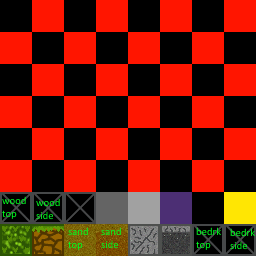
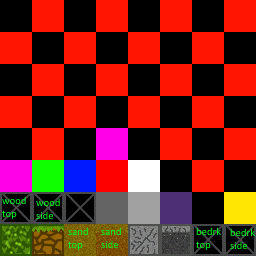
a few more mesh updates
a few more mesh updates

Changed region(s): [[0.0, 0.5, 0.625, 0.75]]

diff --git a/Assets/MeshGenerator.cs b/Assets/MeshGenerator.cs
@@ -10,27 +10,30 @@ public class MeshGenerator  {
 
     MeshFilter filter;
     MeshCollider collider;
+    int scale = 1;
 
 
     public MeshGenerator(float texScale)
     {
         this.texScale = texScale;
+
     }
 
-    public MeshGenerator(float texScale, MeshFilter filter, MeshCollider collider)
+    public MeshGenerator(float texScale,  MeshFilter filter, MeshCollider collider)
     {
         this.texScale = texScale;
+
         this.filter = filter;
         this.collider = collider;
     }
 
-    public void GenearateWallsFromTexture(Texture2D t, int width, int height, bool renderCollision = false){
+    public void GenearateWallsFromTexture(Texture2D t, int width, int height, int wallHeight, bool renderCollision = false){
 
         for (int x = 0; x < width; x++)
         {
             for (int y = 0; y < height; y++)
             {
-                GenerateSquare(x, y, t.GetPixel(x, y), new Color(0f / 256f, 0f / 256f, 0f / 256f));
+                GenerateCube(x * scale, wallHeight * scale, y * scale, t.GetPixel(x, y),new Color(0f / 256f, 0f / 256f, 0f / 256f));
             }
         }
 
@@ -39,27 +42,75 @@ public class MeshGenerator  {
     }
 
 
-    void GenerateSquare(int x, int z, Color inputColor, Color targetColor)
+    public void GenerateFloor(Texture2D t, int x, int y, int z, bool renderCollision = true, int scale = 1)
+    {
+
+
+            verts.Add(new Vector3(x, y, z));
+            verts.Add(new Vector3(x, y, z + scale));
+            verts.Add(new Vector3(x + scale, y, z + scale));
+            verts.Add(new Vector3(x + scale, y, z));
+
+            GenerateSquareUVs(0, 0, 1);
+            GenerateSquareTris();
+
+            GenerateMesh();
+        
+    }
+
+    public void GenerateCube(int x, int y, int z,Color inputColor, Color targetColor)
     {
         if (WithinColorRange(targetColor, inputColor, 64))
         {
 
-            verts.Add(new Vector3(x, 1, z));
-            verts.Add(new Vector3(x, 1, z + 1));
-            verts.Add(new Vector3(x + 1, 1, z + 1));
-            verts.Add(new Vector3(x + 1, 1, z));
+            //Top
+            verts.Add(new Vector3(x, y + scale, z));
+            verts.Add(new Vector3(x, y + scale, z + scale));
+            verts.Add(new Vector3(x + scale, y + scale, z + scale));
+            verts.Add(new Vector3(x + scale, y + scale, z));
 
-            GenerateSquareUVs(0, 0);
+            GenerateSquareUVs(0, 2, texScale);
+            GenerateSquareTris();
+
+            //Front
+            verts.Add(new Vector3(x, y, z));
+            verts.Add(new Vector3(x, y + scale, z));
+            verts.Add(new Vector3(x + scale, y + scale, z));
+            verts.Add(new Vector3(x + scale, y, z));
+
+            GenerateSquareUVs(1, 2, texScale);
+            GenerateSquareTris();
+
+            //Left
+            verts.Add(new Vector3(x, y, z + scale));
+            verts.Add(new Vector3(x, y + scale, z + scale));
+            verts.Add(new Vector3(x , y + scale, z));
+            verts.Add(new Vector3(x, y, z));
+
+            GenerateSquareUVs(1, 2, texScale);
+            GenerateSquareTris();
+
+            //Back
+            verts.Add(new Vector3(x + scale, y, z + scale));
+            verts.Add(new Vector3(x + scale, y + scale, z + scale));
+            verts.Add(new Vector3(x, y + scale, z + scale));
+            verts.Add(new Vector3(x, y, z + scale));
+
+            GenerateSquareUVs(1, 2, texScale);
+            GenerateSquareTris();
+
+            //Right
+            verts.Add(new Vector3(x + scale, y, z));
+            verts.Add(new Vector3(x + scale, y + scale, z));
+            verts.Add(new Vector3(x + scale, y + scale, z + scale));
+            verts.Add(new Vector3(x + scale, y, z + scale));
+
+            GenerateSquareUVs(1, 2, texScale);
             GenerateSquareTris();
         }
     }
 
-    public void GenerateCube(int x, int z, Color inputColor, Color targetColor)
-    {
-
-    }
-
-    void GenerateSquareUVs(int texX, int texY)
+    void GenerateSquareUVs(float texX, float texY, float texScale)
     {
         uvs.Add(new Vector2(texX * texScale, texY * texScale));
         uvs.Add(new Vector2(texX * texScale, texY * texScale + texScale));

diff --git a/Assets/ArenaManager.cs b/Assets/ArenaManager.cs
@@ -8,8 +8,9 @@ using UnityEngine.UI;
 [RequireComponent(typeof(MeshCollider))]
 public class ArenaManager : MonoBehaviour {
 	public Texture2D tileMap;
-	public int height;
-	public int width;
+	public int size;
+
+	public int wallScale;
 
 	MeshFilter filter;
 	MeshCollider collider;
@@ -18,17 +19,52 @@ public class ArenaManager : MonoBehaviour {
 
 	MeshGenerator manager;
 
+	public GameObject floor;
+	public GameObject[] chunks;
+
+	MeshGenerator floorManager;
+	MeshFilter floorFilter;
+	MeshCollider floorCollider;
+
+	Texture2D webcamTextureArena;
+
 	void Start()
 	{
+
+		//Get the webcam texture
+		webcamTextureArena = GameObject.Find("WebCamTextureArena").GetComponent<RawImage>().texture as Texture2D;
+
 		filter = GetComponent<MeshFilter>();
 		collider = GetComponent <MeshCollider>();
 		manager = new MeshGenerator(texScale, filter, collider);
+
+		for (int x = 0; x < size; x += 32)
+		{
+			for (int z = 0; z < size; z += 32)
+			{
+                //Resume here with chunk code
+			}
+		}
+
+
+			//Create the arena floor
+			floor = GameObject.Instantiate(floor);
+		floor.transform.position = new Vector3(0,0,0);
+		floor.name = "Arena Floor";
+		floorFilter = floor.GetComponent<MeshFilter>();
+		floorCollider = floor.GetComponent<MeshCollider>();
+		floorManager = new MeshGenerator(texScale,floorFilter, floorCollider);
+
 	}
 
 	void FixedUpdate()
 	{
-		manager.GenearateWallsFromTexture(GameObject.Find("WebCamTextureArena").GetComponent<RawImage>().texture as Texture2D,100,100, false);
+		webcamTextureArena = GameObject.Find("WebCamTextureArena").GetComponent<RawImage>().texture as Texture2D;
+		manager.GenearateWallsFromTexture(webcamTextureArena,32,32, wallScale, false);
+		floorManager.GenerateFloor(webcamTextureArena, 0, 0, 0, true, 256);
 	}
+
+ 
 
 	
 

diff --git a/Assets/TextureManager.cs b/Assets/TextureManager.cs
@@ -67,6 +67,8 @@ public class TextureManager : MonoBehaviour {
 		textureArenaComponent.texture = textureArena;
 
 
+
+
 		pixels = webCamTextureArena.GetPixels32();
 
 		Texture2D textureBot = new Texture2D(webCamTextureBot1.width, webCamTextureBot1.height, TextureFormat.ARGB32, false);
